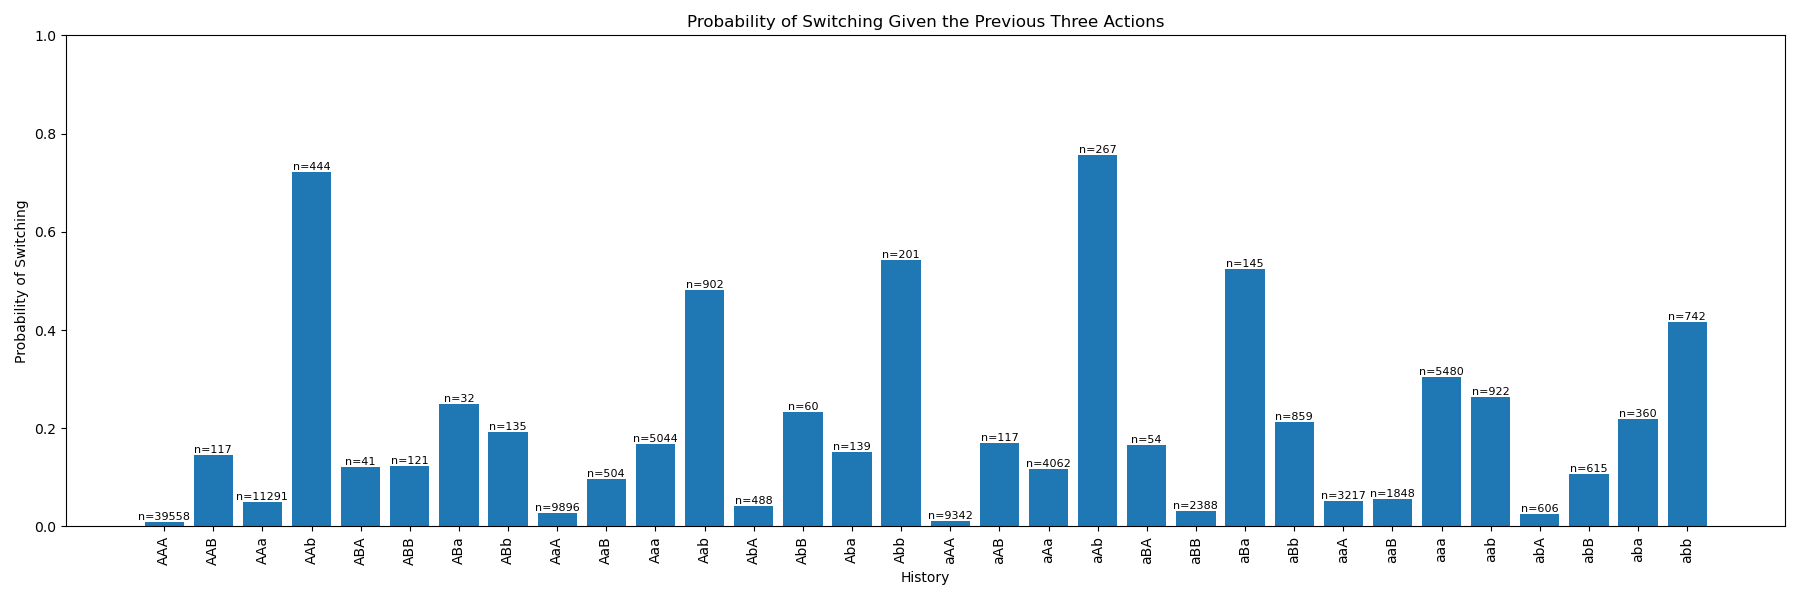
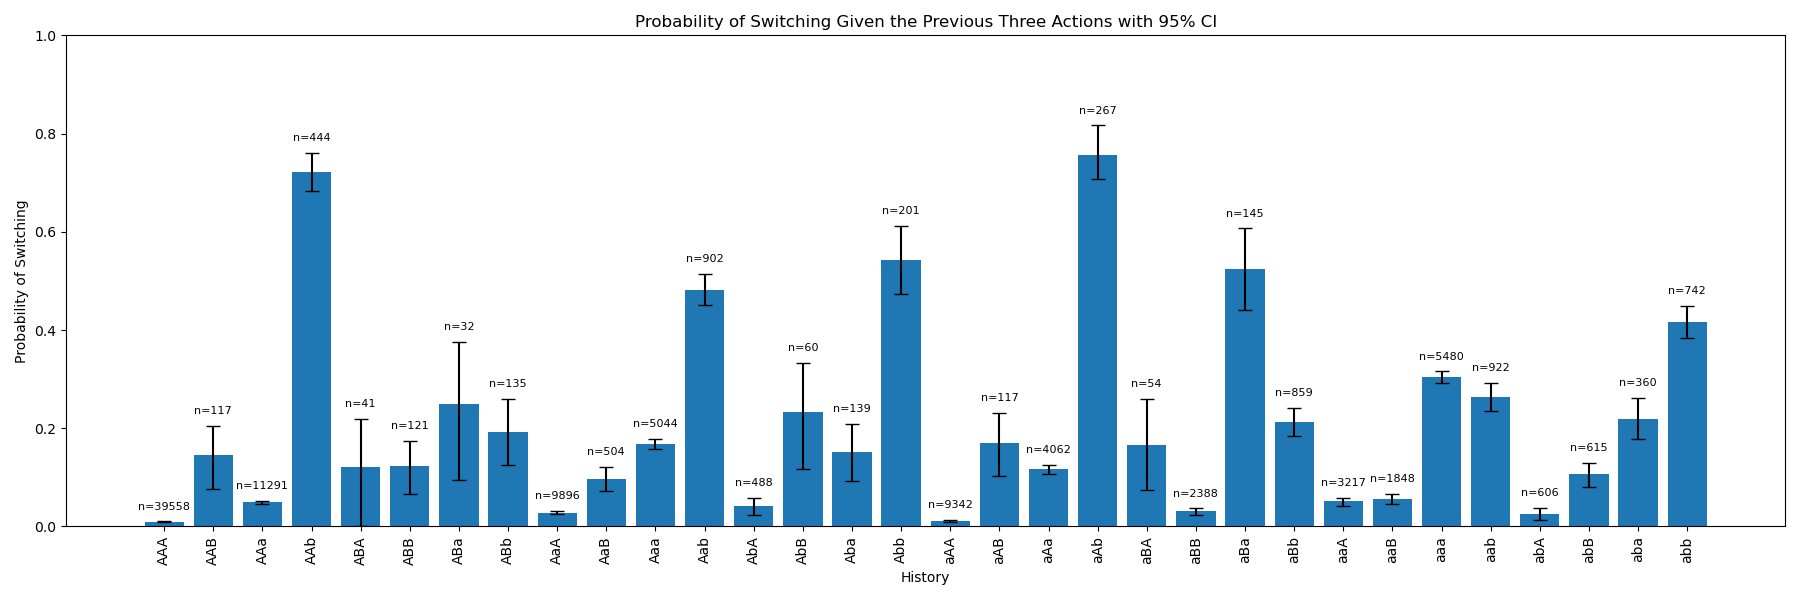
Error bars and confidence shading via bootstrapping

diff --git a/evaluation/graph_helper.py b/evaluation/graph_helper.py
@@ -1,34 +1,36 @@
 import matplotlib.pyplot as plt
 import numpy as np
+from scipy.stats import bootstrap
 
-def plot_probabilities(block_positions, high_reward_prob, switch_prob, prefix, directory_escape=""):
+
+def plot_probabilities(block_positions, high_reward_prob, high_reward_ci_lower, high_reward_ci_upper, switch_prob, switch_ci_lower, switch_ci_upper, prefix, directory_escape=""):
     # Plot P(high port)
     plt.figure(figsize=(10, 5))
     plt.plot(block_positions, high_reward_prob, label="P(high port)", marker='o', color='blue')
+    plt.fill_between(block_positions, high_reward_ci_lower, high_reward_ci_upper, color='blue', alpha=0.2)
     plt.axvline(0, color='black', linestyle='--', label="Block Transition")
     plt.xlabel("Block Position")
     plt.ylabel("P(high port)")
-    plt.title("Probability of Selecting High-Reward Port")
+    plt.title("Probability of Selecting High-Reward Port with 95% CI")
     plt.legend()
-    plt.ylim(0, 1)  # Adjust y-axis limits as needed
+    plt.ylim(0, 1)
     plt.grid(True)
     plt.tight_layout()
     plt.savefig(f'../{directory_escape}graphs/{prefix}_G_selecting_high_reward_port.png')
-    # plt.show()
 
     # Plot P(switch)
     plt.figure(figsize=(10, 5))
     plt.plot(block_positions, switch_prob, label="P(switch)", marker='o', color='blue')
+    plt.fill_between(block_positions, switch_ci_lower, switch_ci_upper, color='blue', alpha=0.2)
     plt.axvline(0, color='black', linestyle='--', label="Block Transition")
     plt.xlabel("Block Position")
     plt.ylabel("P(switch)")
-    plt.title("Probability of Switching")
+    plt.title("Probability of Switching with 95% CI")
     plt.legend()
-    plt.ylim(0, max(switch_prob) * 1.1) 
+    plt.ylim(0, 1.1 * max(switch_prob))
     plt.grid(True)
     plt.tight_layout()
     plt.savefig(f'../{directory_escape}graphs/{prefix}_G_switch_probabilities.png')
-    # plt.show()
 
 def map_sequence_to_pattern(seq):
     action1, action2, action3 = seq
@@ -73,44 +75,65 @@ def calculate_switch_probabilities(events):
 
         # Update counts
         if pattern not in pattern_data:
-            pattern_data[pattern] = {'switches': 0, 'total': 0}
-        pattern_data[pattern]['total'] += 1
-        if switched:
-            pattern_data[pattern]['switches'] += 1
+            pattern_data[pattern] = []
+        pattern_data[pattern].append(switched)
 
-    # Calculate probabilities and prepare for sorting
     patterns = []
     probabilities = []
     counts = []
+    ci_lower = []
+    ci_upper = []
+
     for pattern, data in pattern_data.items():
-        total = data['total']
-        switches = data['switches']
+        data_array = np.array(data)
+        total = len(data_array)
+        switches = np.sum(data_array)
         prob = switches / total if total > 0 else 0
+        res = bootstrap((data_array,), np.mean, confidence_level=0.95, n_resamples=1000, method='basic')
         patterns.append(pattern)
         probabilities.append(prob)
         counts.append(total)
+        ci_lower.append(res.confidence_interval.low)
+        ci_upper.append(res.confidence_interval.high)
 
     # Sort patterns alphabetically
     sorted_indices = np.argsort(patterns)
     sorted_patterns = [patterns[i] for i in sorted_indices]
     sorted_probabilities = [probabilities[i] for i in sorted_indices]
     sorted_counts = [counts[i] for i in sorted_indices]
+    sorted_ci_lower = [ci_lower[i] for i in sorted_indices]
+    sorted_ci_upper = [ci_upper[i] for i in sorted_indices]
 
-    return sorted_patterns, sorted_probabilities, sorted_counts
+    return sorted_patterns, sorted_probabilities, sorted_ci_lower, sorted_ci_upper, sorted_counts
 
-def plot_switch_probabilities(patterns, probabilities, counts, prefix, directory_escape = ""):
+
+def plot_switch_probabilities(patterns, probabilities, ci_lower, ci_upper, counts, prefix, directory_escape=""):
+    # Calculate error bars (asymmetric errors)
+    lower_errors = [probabilities[i] - ci_lower[i] for i in range(len(probabilities))]
+    upper_errors = [ci_upper[i] - probabilities[i] for i in range(len(probabilities))]
+    errors = [lower_errors, upper_errors]
+
     # Create the bar chart
     plt.figure(figsize=(18, 6))
-    bars = plt.bar(range(len(patterns)), probabilities, tick_label=patterns)
+    bars = plt.bar(range(len(patterns)), probabilities, yerr=errors, tick_label=patterns, capsize=5)
 
-    # Annotate bars with counts
-    for bar, count in zip(bars, counts):
+    # Annotate bars with counts, positioning the text above the error bars
+    for idx, (bar, count) in enumerate(zip(bars, counts)):
         height = bar.get_height()
-        plt.text(bar.get_x() + bar.get_width()/2.0, height, f'n={count}', ha='center', va='bottom', fontsize=8)
+        upper_error = upper_errors[idx]
+        # Set the text position above the upper error bar
+        plt.text(
+            bar.get_x() + bar.get_width() / 2.0,
+            height + upper_error + 0.02,  # Adjust 0.02 as needed for spacing
+            f'n={count}',
+            ha='center',
+            va='bottom',
+            fontsize=8
+        )
 
     plt.xlabel('History')
     plt.ylabel('Probability of Switching')
-    plt.title('Probability of Switching Given the Previous Three Actions')
+    plt.title('Probability of Switching Given the Previous Three Actions with 95% CI')
     plt.xticks(rotation=90)
     plt.ylim(0, 1)
     plt.tight_layout()

diff --git a/transformer/inference/graphs_transformer_vs_ground_truth.py b/transformer/inference/graphs_transformer_vs_ground_truth.py
@@ -6,6 +6,8 @@ project_root = os.path.abspath(os.path.join(os.path.dirname(__file__), '../../')
 sys.path.insert(0, project_root)
 #so that I can import from a directory two levels up
 from evaluation.graph_helper import plot_probabilities, calculate_switch_probabilities, plot_switch_probabilities
+from scipy.stats import bootstrap
+
 
 global rflr
 
@@ -168,32 +170,73 @@ def align_events_with_predictions(events, predictions):
     return events
 
 def calculate_probabilities(events):
-    block_positions = list(range(-10, 21))  # This range includes both negative and positive
+    block_positions = list(range(-10, 21))  # This range includes both negative and positive positions
+
+    # Initialize lists to store probabilities and confidence intervals
     high_reward_prob = []
+    high_reward_ci_lower = []
+    high_reward_ci_upper = []
     switch_prob = []
+    switch_ci_lower = []
+    switch_ci_upper = []
 
     for pos in block_positions:
         selected_high = []
         switches = []
 
-        # Gather probabilities for both positive and negative positions
+        # Gather data for the current block position
         for event in events:
-            if pos in event['block_position']:  # If the position (either positive or negative) is in the list
+            if pos in event['block_position']:
                 selected_high.append(event['selected_high_prediction'])
                 switches.append(event['switch'])
 
-        # Calculate probabilities for each block position
+        # Calculate high-reward probabilities and bootstrap confidence intervals
         if selected_high:
-            high_reward_prob.append(np.mean(selected_high))
-        else:
-            high_reward_prob.append(np.nan)  # Use NaN for positions with no data
+            data = np.array(selected_high)
+            prob = np.mean(data)
+            high_reward_prob.append(prob)
 
+            # Check if there are enough data points for bootstrapping
+            if len(data) > 1:
+                res = bootstrap((data,), np.mean, confidence_level=0.95, n_resamples=1000, method='basic')
+                ci_lower = res.confidence_interval.low
+                ci_upper = res.confidence_interval.high
+            else:
+                # If only one data point, set CI equal to the point estimate
+                ci_lower = prob
+                ci_upper = prob
+
+            high_reward_ci_lower.append(ci_lower)
+            high_reward_ci_upper.append(ci_upper)
+        else:
+            # No data for this position; append NaN
+            high_reward_prob.append(np.nan)
+            high_reward_ci_lower.append(np.nan)
+            high_reward_ci_upper.append(np.nan)
+
+        # Calculate switch probabilities and bootstrap confidence intervals
         if switches:
-            switch_prob.append(np.mean(switches))
-        else:
-            switch_prob.append(np.nan)  # Use NaN for positions with no data
+            data = np.array(switches)
+            prob = np.mean(data)
+            switch_prob.append(prob)
 
-    return block_positions, high_reward_prob, switch_prob
+            if len(data) > 1:
+                res = bootstrap((data,), np.mean, confidence_level=0.95, n_resamples=1000, method='basic')
+                ci_lower = res.confidence_interval.low
+                ci_upper = res.confidence_interval.high
+            else:
+                ci_lower = prob
+                ci_upper = prob
+
+            switch_ci_lower.append(ci_lower)
+            switch_ci_upper.append(ci_upper)
+        else:
+            switch_prob.append(np.nan)
+            switch_ci_lower.append(np.nan)
+            switch_ci_upper.append(np.nan)
+
+    # Return the block positions, probabilities, and confidence intervals
+    return block_positions, high_reward_prob, high_reward_ci_lower, high_reward_ci_upper, switch_prob, switch_ci_lower, switch_ci_upper
 
 # Main code
 
@@ -227,13 +270,13 @@ else:
     print(f"Percent of trials with a switch: {percent_switches:.2f}%")
 
     # Calculate probabilities for block positions
-    block_positions, high_reward_prob, switch_prob = calculate_probabilities(events)
+    block_positions, high_reward_prob, high_reward_ci_lower, high_reward_ci_upper, switch_prob, switch_ci_lower, switch_ci_upper = calculate_probabilities(events)
 
     # Plot the probabilities
-    plot_probabilities(block_positions, high_reward_prob, switch_prob, prefix, "../")
+    plot_probabilities(block_positions, high_reward_prob, high_reward_ci_lower, high_reward_ci_upper, switch_prob, switch_ci_lower, switch_ci_upper, prefix, "../")
 
     # Calculate switch probabilities
-    sorted_patterns, sorted_probabilities, sorted_counts = calculate_switch_probabilities(events)
+    sorted_patterns, sorted_probabilities, sorted_ci_lower, sorted_ci_upper, sorted_counts = calculate_switch_probabilities(events)
 
     # Plot the switch probabilities
-    plot_switch_probabilities(sorted_patterns, sorted_probabilities, sorted_counts, prefix, "../")
+    plot_switch_probabilities(sorted_patterns, sorted_probabilities, sorted_ci_lower, sorted_ci_upper, sorted_counts, prefix, "../")

diff --git a/evaluation/graphs_on_trial_block_transitions.py b/evaluation/graphs_on_trial_block_transitions.py
@@ -2,6 +2,7 @@ import matplotlib.pyplot as plt
 import numpy as np
 import os
 from graph_helper import plot_probabilities, calculate_switch_probabilities, plot_switch_probabilities
+from scipy.stats import bootstrap
 
 global rflr
 
@@ -148,19 +149,45 @@ def calculate_probabilities(events):
             if pos in block_positions:
                 high_reward_data[pos].append(event['selected_high'])
                 switch_data[pos].append(event['switch'])
+
     high_reward_prob = []
+    high_reward_ci_lower = []
+    high_reward_ci_upper = []
     switch_prob = []
+    switch_ci_lower = []
+    switch_ci_upper = []
+
     for pos in block_positions:
         if high_reward_data[pos]:
-            high_reward_prob.append(np.mean(high_reward_data[pos]))
+            data = np.array(high_reward_data[pos])
+            prob = np.mean(data)
+            res = bootstrap((data,), np.mean, confidence_level=0.95, n_resamples=1000, method='basic')
+            ci_lower = res.confidence_interval.low
+            ci_upper = res.confidence_interval.high
+            high_reward_prob.append(prob)
+            high_reward_ci_lower.append(ci_lower)
+            high_reward_ci_upper.append(ci_upper)
         else:
             high_reward_prob.append(np.nan)
+            high_reward_ci_lower.append(np.nan)
+            high_reward_ci_upper.append(np.nan)
+
         if switch_data[pos]:
-            switch_prob.append(np.mean(switch_data[pos]))
+            data = np.array(switch_data[pos])
+            prob = np.mean(data)
+            res = bootstrap((data,), np.mean, confidence_level=0.95, n_resamples=1000, method='basic')
+            ci_lower = res.confidence_interval.low
+            ci_upper = res.confidence_interval.high
+            switch_prob.append(prob)
+            switch_ci_lower.append(ci_lower)
+            switch_ci_upper.append(ci_upper)
         else:
             switch_prob.append(np.nan)
+            switch_ci_lower.append(np.nan)
+            switch_ci_upper.append(np.nan)
 
-    return block_positions, high_reward_prob, switch_prob
+    return block_positions, high_reward_prob, high_reward_ci_lower, high_reward_ci_upper, switch_prob, switch_ci_lower, switch_ci_upper
+
 
 # Main code
 
@@ -195,13 +222,13 @@ else:
         #     print(event)
 
         # Calculate probabilities for block positions
-        block_positions, high_reward_prob, switch_prob = calculate_probabilities(events)
+        block_positions, high_reward_prob, high_reward_ci_lower, high_reward_ci_upper, switch_prob, switch_ci_lower, switch_ci_upper = calculate_probabilities(events)
 
         # Plot the probabilities
-        plot_probabilities(block_positions, high_reward_prob, switch_prob, prefix)
+        plot_probabilities(block_positions, high_reward_prob, high_reward_ci_lower, high_reward_ci_upper, switch_prob, switch_ci_lower, switch_ci_upper, prefix)
 
         # Calculate switch probabilities
-        sorted_patterns, sorted_probabilities, sorted_counts = calculate_switch_probabilities(events)
+        sorted_patterns, sorted_probabilities, sorted_ci_lower, sorted_ci_upper, sorted_counts = calculate_switch_probabilities(events)
 
         # Plot the switch probabilities
-        plot_switch_probabilities(sorted_patterns, sorted_probabilities, sorted_counts, prefix)
+        plot_switch_probabilities(sorted_patterns, sorted_probabilities, sorted_ci_lower, sorted_ci_upper, sorted_counts, prefix)

diff --git a/transformer/train.py b/transformer/train.py
@@ -37,7 +37,7 @@ torch.manual_seed(42)
 if torch.cuda.is_available():
     torch.cuda.manual_seed(1337)
 # Training setup
-total_batch_size = 3072
+total_batch_size = 6144
 B = 256
 T = 12
 assert total_batch_size % (B*T*ddp_world_size) == 0, "make sure total batch size is divisible by B * T * ddp_world_size"
@@ -45,6 +45,10 @@ grad_accum_steps = total_batch_size//(B*T*ddp_world_size)
 if master_process:
     print(f"total desired batch size: {total_batch_size}")
     print(f"=> calculated gradient accumulation steps: {grad_accum_steps}")
+
+print("I am GPU ", ddp_rank)
+print("Bye")
+import sys; sys.exit(0)
 
 train_loader = DataLoaderLite(B=B, T=T, run_number=run_number)
 # val_loader = DataLoaderLite(B=B, T=T) #to do
